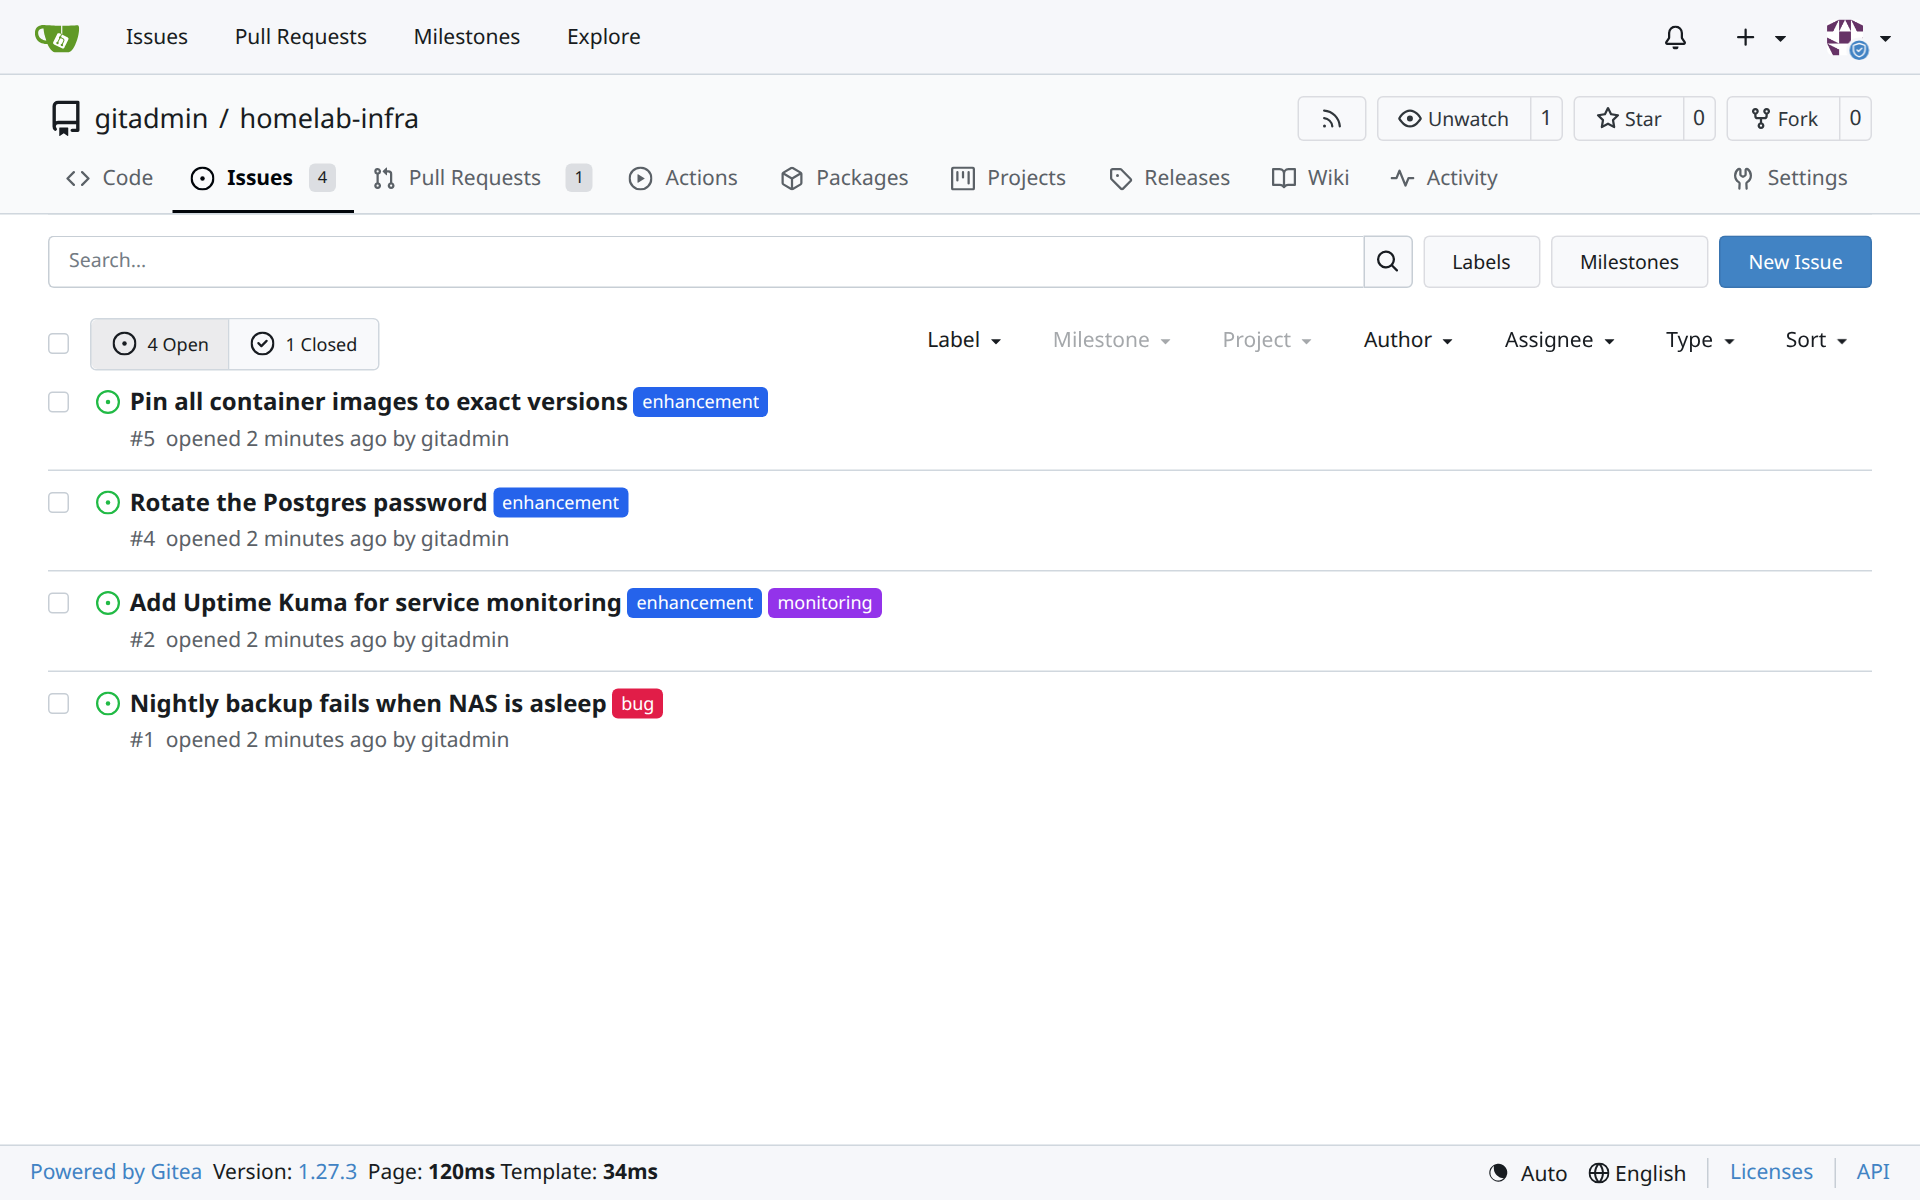
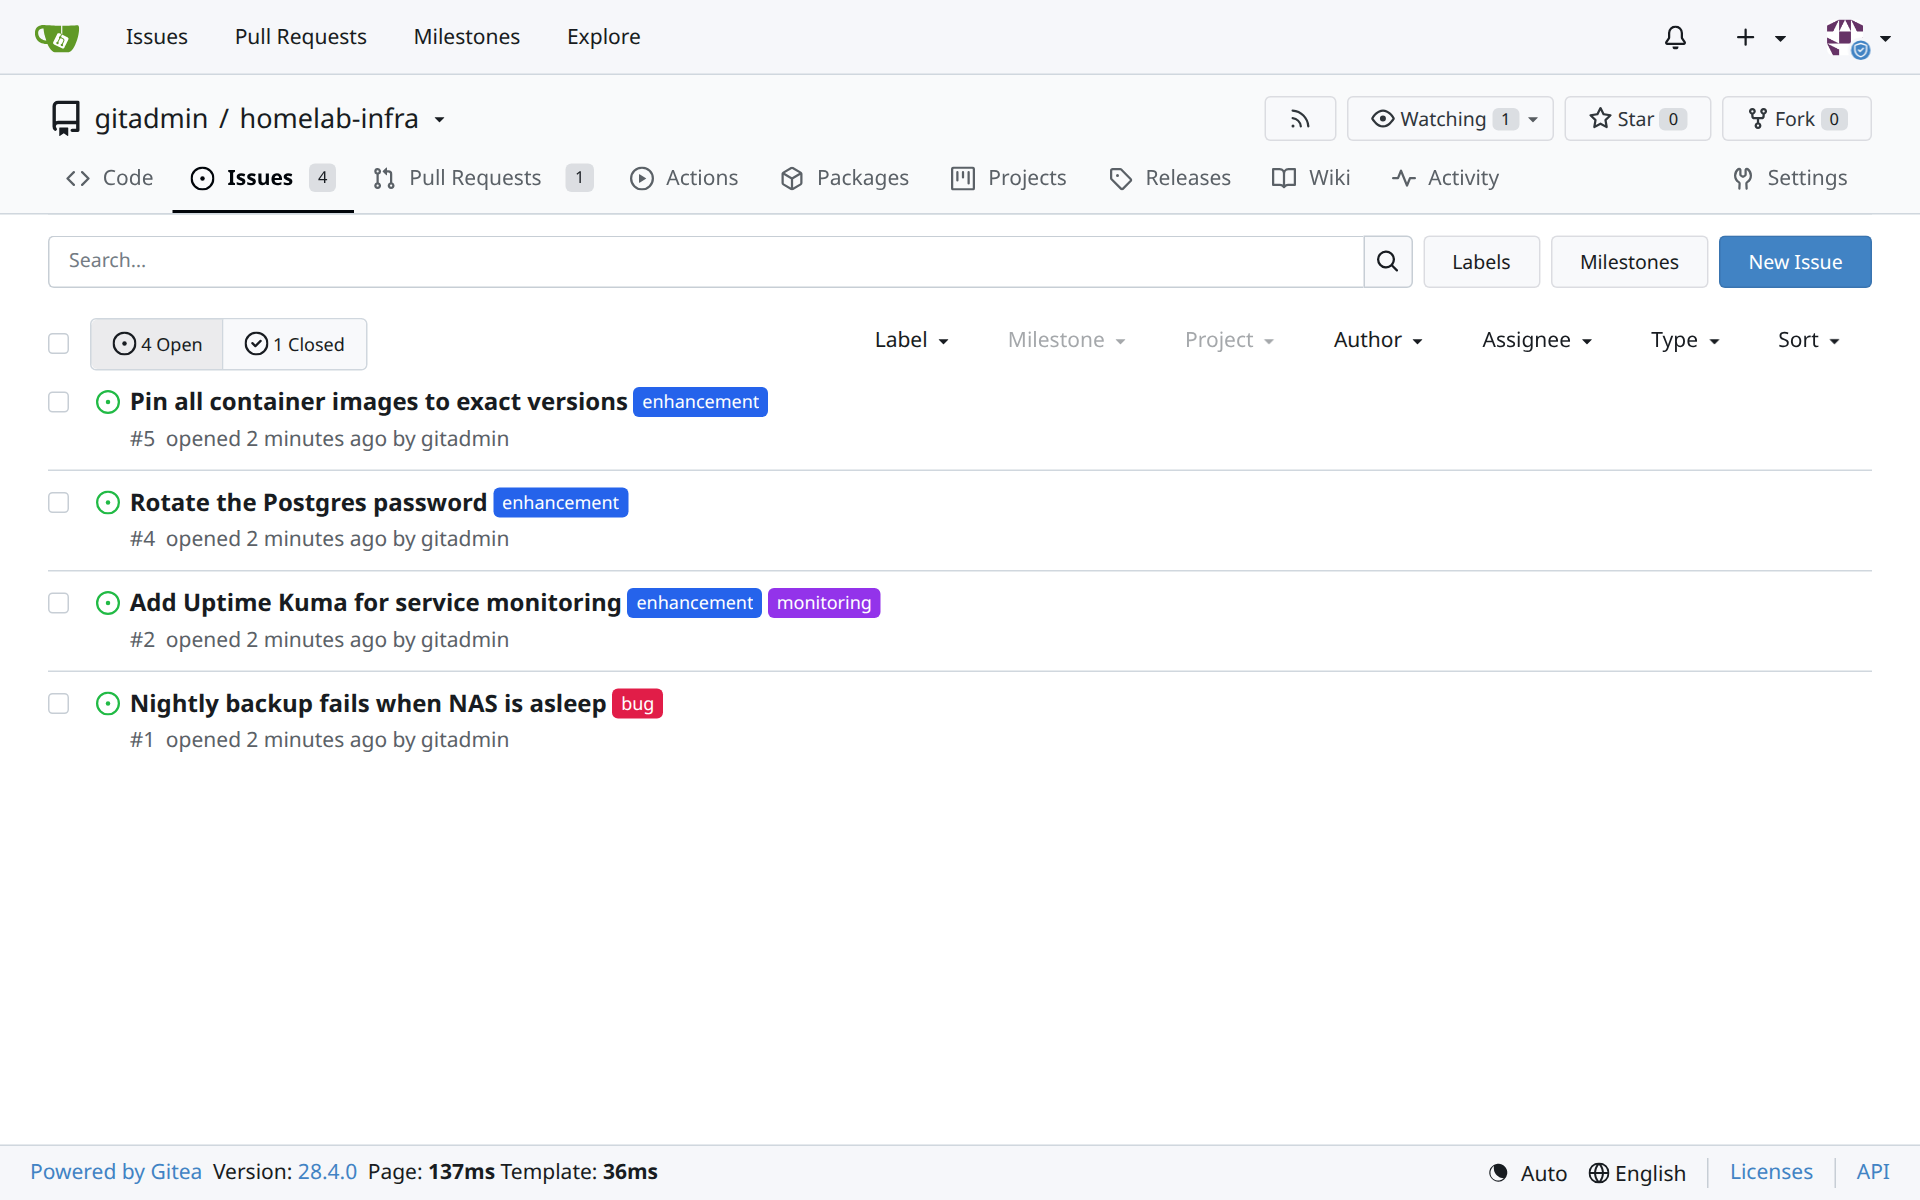
Upgrade to Gitea 28.4.0 and PostgreSQL 19 with a safe major-upgrade path
Gitea 1.27.3 -> 28.4.0
- Gitea moved to a new version scheme after 1.27; 28.x has two breaking
  changes (git egress proxy host lists, Actions run retention), neither
  of which affects this lab
- Tested via `make update` on a populated lab: migrations 343-350 ran and
  repositories, issues, comments, labels and commit history are unchanged

PostgreSQL 17 -> 19
- postgres:18+ images keep data in /var/lib/postgresql/<major>/docker;
  the volume mount path now follows the major version (17 and older are
  unchanged, so existing labs are not touched by this alone)
- New `make upgrade-postgres`: records row counts, backs up, rebuilds only
  the database container and volume on the new major, restores, and fails
  if the counts differ. Rollback: BACKUP=<pre-upgrade backup>
- New preflight check: `make up`/`apply`/`update` refuse to start a new
  major on old data, which would otherwise bring Gitea up on an empty
  database
- CI job rehearses 17 -> 19 on every PR, including the refusal

Also
- Defaults and docs updated; screenshots retaken on Gitea 28.4.0
- check-updates no longer prints expected 404s

diff --git a/docs/operations.md b/docs/operations.md
@@ -33,15 +33,41 @@ Example: to keep the web UI off the LAN, set `GITEA_HTTP_BIND=127.0.0.1`, then r
 
 To roll back, set the old version, run `make up`, then `make restore BACKUP=<backup from step 4>`. Gitea migrations are not reversible, so restoring the backup is the only way back.
 
-A **major** PostgreSQL upgrade (for example 17 → 18) needs a dump and restore, not just a new tag:
+### Example: Gitea 1.27.3 → 28.4.0 (tested)
+
+`make plan` showed only the Gitea image and container being replaced. `make update` took a backup, Gitea ran its database migrations (343–350) on startup, and every repository, issue, comment, label and commit was unchanged afterwards. Gitea 28's two breaking changes don't affect this lab: the git egress proxy only matters if you set migration or webhook host lists, and Actions run retention only matters if you use Gitea Actions.
+
+## Upgrading PostgreSQL
+
+**Minor versions** (19.0 → 19.1) come with the floating `19-alpine` tag: run `make update`.
+
+**Major versions** (17 → 19) can't read an older data directory, so they need a dump and restore:
 
 ```bash
-make backup
-make nuke                      # removes the old data volume
-# set POSTGRES_VERSION=18-alpine in .env
-make up
-make restore BACKUP=latest
+# 1. set POSTGRES_VERSION=19-alpine in .env
+make upgrade-postgres
 ```
+
+The script:
+
+1. Records row counts (repositories, users, issues, comments, labels).
+2. Takes a normal backup.
+3. Rebuilds **only** the database container and its volume on the new version.
+4. Restores the backup.
+5. Fails loudly if the counts differ.
+
+Downtime is about a minute. Keep the backup it names until you're happy.
+
+If you change `POSTGRES_VERSION` to a new major and run plain `make up`, `make up` **refuses**. Otherwise Postgres would start an empty database, and Gitea would come up looking empty. The message tells you to use `make upgrade-postgres`.
+
+**Rolling back** needs the backup taken before the upgrade, because an older `pg_restore` can't read a newer dump:
+
+```bash
+# set POSTGRES_VERSION back to 17-alpine in .env
+make upgrade-postgres BACKUP=backups/<stamp from the upgrade>
+```
+
+Both directions are tested, along with the refusal in `make up`. CI rehearses the 17 → 19 upgrade on every PR.
 
 ## Rotating secrets
 

diff --git a/README.md b/README.md
@@ -17,8 +17,8 @@ Terraform does **not** need to be installed. If it is missing, every Terraform s
 
 | Component | Details |
 |---|---|
-| Gitea | `docker.gitea.com/gitea:1.27.3`. Web UI on `:3000`, Git over SSH on `:2222` |
-| PostgreSQL | `postgres:17-alpine`. Gitea is only created after the database is healthy |
+| Gitea | `docker.gitea.com/gitea:28.4.0`. Web UI on `:3000`, Git over SSH on `:2222` |
+| PostgreSQL | `postgres:19-alpine`. Gitea is only created after the database is healthy. Major upgrades with `make upgrade-postgres` |
 | Terraform | `terraform/`, `kreuzwerker/docker` provider. Runs locally or in a container (`TF_MODE`) |
 | Secrets | Database password and `SECRET_KEY` in `secrets/` (mode 600), mounted read-only. **Never in Terraform state or `docker inspect`** |
 | Backups | `pg_dump` + data volume + `.env` + secrets + state, with checksums and retention. Nightly via `make schedule` |
@@ -98,7 +98,7 @@ Run `make help` for the full list.
 | Area | Targets |
 |---|---|
 | Setup | `install` `bootstrap` `validate` `lint` |
-| Build (Terraform) | `build` `init` `plan` `up` `apply` `down` `nuke` `update` |
+| Build (Terraform) | `build` `init` `plan` `up` `apply` `down` `nuke` `update` `upgrade-postgres` |
 | Operate | `status` `logs [SERVICE=gitea\|db]` `restart` `shell` `db-shell` `admin` |
 | Health | `health` `diag` `check-updates` `smoke FORCE=1` |
 | Backup | `backup` `restore BACKUP=<dir\|latest> [FORCE=1]` `schedule` `unschedule` |

diff --git a/docs/architecture.md b/docs/architecture.md
@@ -33,7 +33,7 @@
 | `docker_image.gitea`, `docker_image.postgres` | yes | `keep_locally = true`. Changing the tag in `.env` pulls the new image and replaces the container |
 | `docker_network.lab` | yes | `<LAB_NAME>-net`. The database is reachable as `db` |
 | `docker_volume.gitea_data`, `docker_volume.db_data` | yes | Only `make nuke` (`terraform destroy`) removes them |
-| `docker_container.db` | no | `wait = true`: Terraform blocks until `pg_isready` passes |
+| `docker_container.db` | no | `wait = true`: Terraform blocks until `pg_isready` passes. The volume is mounted at `/var/lib/postgresql` for PostgreSQL 18+ (data in `<major>/docker/`) and at `/var/lib/postgresql/data` for 17 and older, following the official image |
 | `docker_container.gitea` | no | Created after the database is healthy. Waits for `/api/healthz` |
 
 The containers use `count = var.running ? 1 : 0`. `make down` sets `running = false`, so they are removed in a normal `apply`, without targeted destroys, and the data stays.
